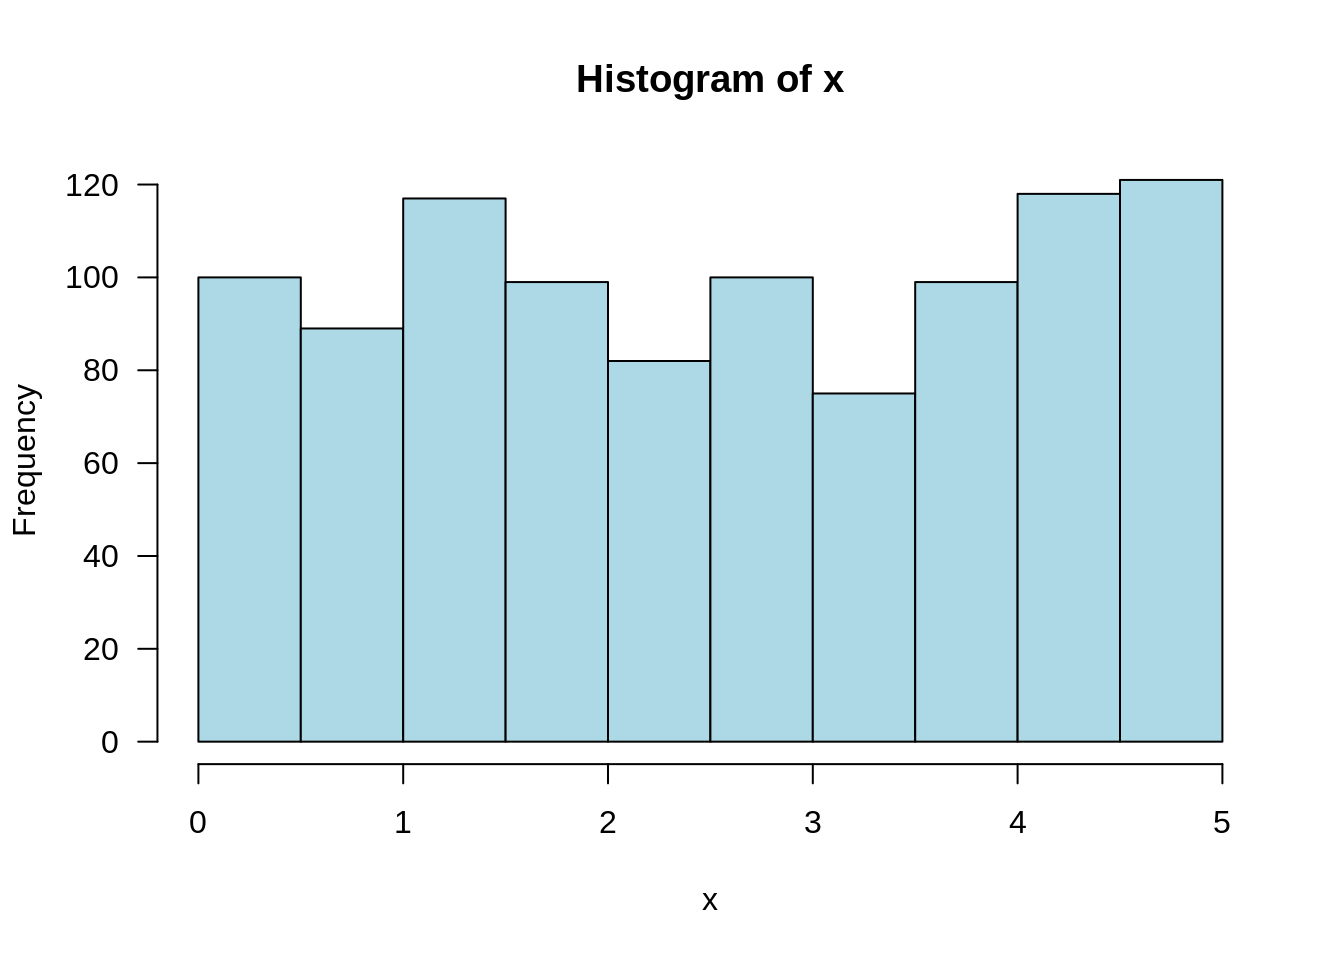
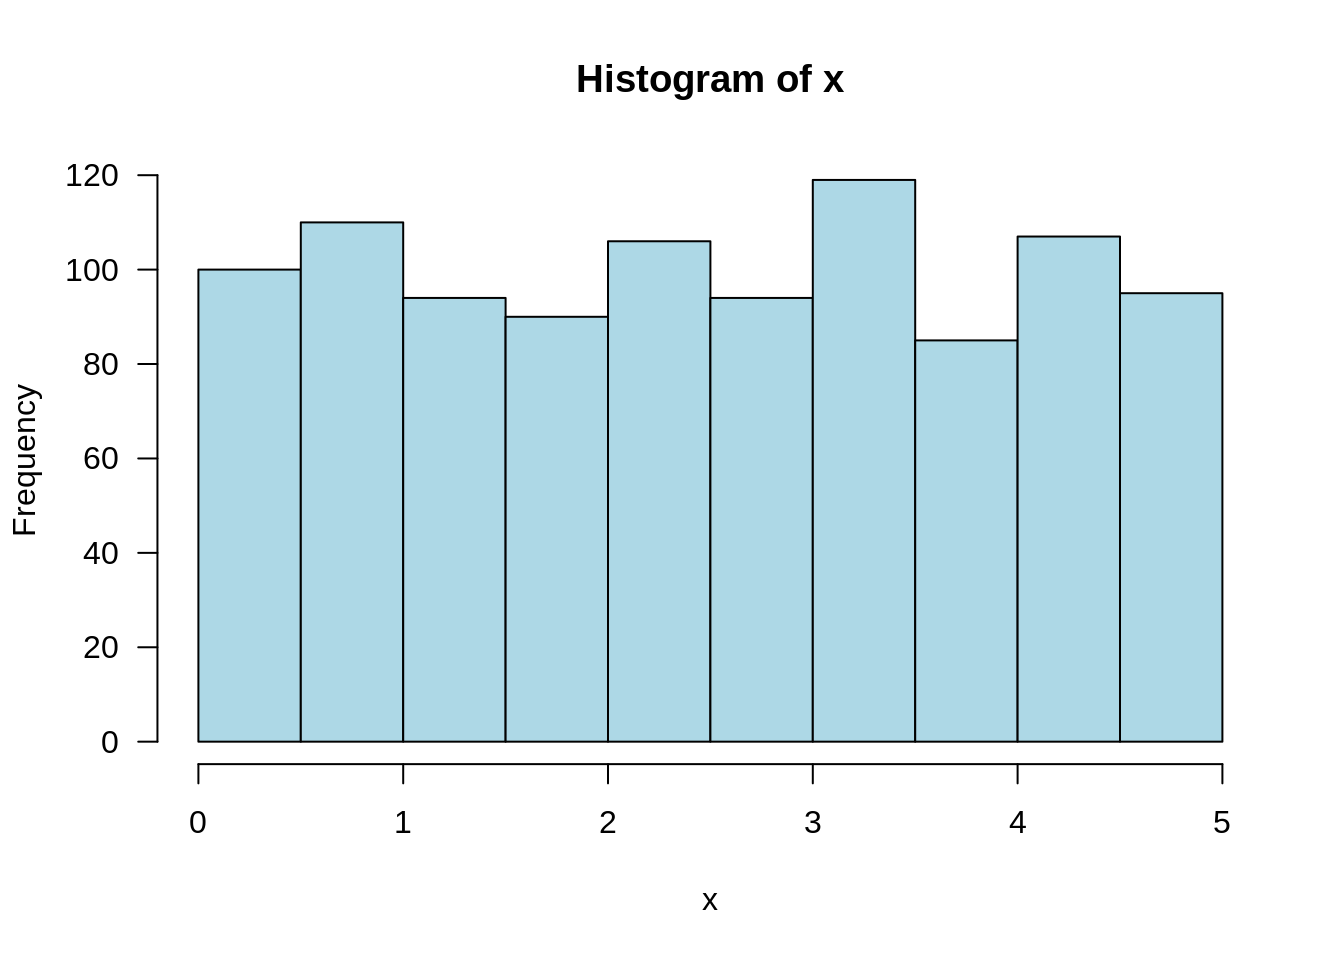
jtr13 published a site update

diff --git a/ch.-4-continuous-random-variables-and-probability-distributions.html b/ch.-4-continuous-random-variables-and-probability-distributions.html
@@ -24,7 +24,7 @@
 <meta name="author" content="Joyce Robbins" />
 
 
-<meta name="date" content="2021-09-04" />
+<meta name="date" content="2021-09-11" />
 
   <meta name="viewport" content="width=device-width, initial-scale=1" />
   <meta name="apple-mobile-web-app-capable" content="yes" />
@@ -271,11 +271,11 @@ code span.wa { color: #60a0b0; font-weight: bold; font-style: italic; } /* Warni
 <p>Randomly choose one number from the distribution:</p>
 <p><span class="math inline">\(f(x) = .2\)</span> for <span class="math inline">\(0 \leq x \leq 5\)</span>, 0 otherwise.</p>
 <div class="sourceCode" id="cb151"><pre class="sourceCode r"><code class="sourceCode r"><span id="cb151-1"><a href="ch.-4-continuous-random-variables-and-probability-distributions.html#cb151-1"></a><span class="kw">runif</span>(<span class="dt">n =</span> <span class="dv">1</span>, <span class="dt">min =</span> <span class="dv">0</span>, <span class="dt">max =</span> <span class="dv">5</span>)</span></code></pre></div>
-<pre><code>## [1] 3.786187</code></pre>
+<pre><code>## [1] 4.861582</code></pre>
 <p>Take the average of 1000 picks:</p>
 <div class="sourceCode" id="cb153"><pre class="sourceCode r"><code class="sourceCode r"><span id="cb153-1"><a href="ch.-4-continuous-random-variables-and-probability-distributions.html#cb153-1"></a>x &lt;-<span class="st"> </span><span class="kw">runif</span>(<span class="dt">n =</span> <span class="dv">1000</span>, <span class="dt">min =</span> <span class="dv">0</span>, <span class="dt">max =</span> <span class="dv">5</span>)</span>
 <span id="cb153-2"><a href="ch.-4-continuous-random-variables-and-probability-distributions.html#cb153-2"></a><span class="kw">mean</span>(x)</span></code></pre></div>
-<pre><code>## [1] 2.564866</code></pre>
+<pre><code>## [1] 2.495369</code></pre>
 <p>Draw a histogram of the 1000 picks:</p>
 <div class="sourceCode" id="cb155"><pre class="sourceCode r"><code class="sourceCode r"><span id="cb155-1"><a href="ch.-4-continuous-random-variables-and-probability-distributions.html#cb155-1"></a><span class="kw">hist</span>(x, <span class="dt">las =</span> <span class="dv">1</span>, <span class="dt">col =</span> <span class="st">&quot;lightblue&quot;</span>)</span></code></pre></div>
 <p><img src="STAT1201-resource_files/figure-html/unnamed-chunk-41-1.png" width="672" /></p>

diff --git a/index.html b/index.html
@@ -24,7 +24,7 @@
 <meta name="author" content="Joyce Robbins" />
 
 
-<meta name="date" content="2021-09-04" />
+<meta name="date" content="2021-09-11" />
 
   <meta name="viewport" content="width=device-width, initial-scale=1" />
   <meta name="apple-mobile-web-app-capable" content="yes" />
@@ -262,7 +262,7 @@ code span.wa { color: #60a0b0; font-weight: bold; font-style: italic; } /* Warni
 <div id="header">
 <h1 class="title">Stat 1201 Resources</h1>
 <p class="author"><em>Joyce Robbins</em></p>
-<p class="date"><em>2021-09-04</em></p>
+<p class="date"><em>2021-09-11</em></p>
 </div>
 <div id="introduction" class="section level1 unnumbered">
 <h1>Introduction</h1>

diff --git a/404.html b/404.html
@@ -24,7 +24,7 @@
 <meta name="author" content="Joyce Robbins" />
 
 
-<meta name="date" content="2021-09-04" />
+<meta name="date" content="2021-09-11" />
 
   <meta name="viewport" content="width=device-width, initial-scale=1" />
   <meta name="apple-mobile-web-app-capable" content="yes" />

diff --git a/ch.-1-descriptive-statistics.html b/ch.-1-descriptive-statistics.html
@@ -24,7 +24,7 @@
 <meta name="author" content="Joyce Robbins" />
 
 
-<meta name="date" content="2021-09-04" />
+<meta name="date" content="2021-09-11" />
 
   <meta name="viewport" content="width=device-width, initial-scale=1" />
   <meta name="apple-mobile-web-app-capable" content="yes" />

diff --git a/ch.-12-linear-regression.html b/ch.-12-linear-regression.html
@@ -24,7 +24,7 @@
 <meta name="author" content="Joyce Robbins" />
 
 
-<meta name="date" content="2021-09-04" />
+<meta name="date" content="2021-09-11" />
 
   <meta name="viewport" content="width=device-width, initial-scale=1" />
   <meta name="apple-mobile-web-app-capable" content="yes" />

diff --git a/ch.-2-conditional-probability.html b/ch.-2-conditional-probability.html
@@ -24,7 +24,7 @@
 <meta name="author" content="Joyce Robbins" />
 
 
-<meta name="date" content="2021-09-04" />
+<meta name="date" content="2021-09-11" />
 
   <meta name="viewport" content="width=device-width, initial-scale=1" />
   <meta name="apple-mobile-web-app-capable" content="yes" />

diff --git a/ch.-2-probability.html b/ch.-2-probability.html
@@ -24,7 +24,7 @@
 <meta name="author" content="Joyce Robbins" />
 
 
-<meta name="date" content="2021-09-04" />
+<meta name="date" content="2021-09-11" />
 
   <meta name="viewport" content="width=device-width, initial-scale=1" />
   <meta name="apple-mobile-web-app-capable" content="yes" />

diff --git a/ch.-3-discrete-distributions.html b/ch.-3-discrete-distributions.html
@@ -24,7 +24,7 @@
 <meta name="author" content="Joyce Robbins" />
 
 
-<meta name="date" content="2021-09-04" />
+<meta name="date" content="2021-09-11" />
 
   <meta name="viewport" content="width=device-width, initial-scale=1" />
   <meta name="apple-mobile-web-app-capable" content="yes" />

diff --git a/ch.-5-joint-probability.html b/ch.-5-joint-probability.html
@@ -24,7 +24,7 @@
 <meta name="author" content="Joyce Robbins" />
 
 
-<meta name="date" content="2021-09-04" />
+<meta name="date" content="2021-09-11" />
 
   <meta name="viewport" content="width=device-width, initial-scale=1" />
   <meta name="apple-mobile-web-app-capable" content="yes" />

diff --git a/ch.-5-random-samples.html b/ch.-5-random-samples.html
@@ -24,7 +24,7 @@
 <meta name="author" content="Joyce Robbins" />
 
 
-<meta name="date" content="2021-09-04" />
+<meta name="date" content="2021-09-11" />
 
   <meta name="viewport" content="width=device-width, initial-scale=1" />
   <meta name="apple-mobile-web-app-capable" content="yes" />

diff --git a/ch.-6-point-estimation.html b/ch.-6-point-estimation.html
@@ -24,7 +24,7 @@
 <meta name="author" content="Joyce Robbins" />
 
 
-<meta name="date" content="2021-09-04" />
+<meta name="date" content="2021-09-11" />
 
   <meta name="viewport" content="width=device-width, initial-scale=1" />
   <meta name="apple-mobile-web-app-capable" content="yes" />

diff --git a/ch.-7-statistical-intervals-based-on-a-single-sample.html b/ch.-7-statistical-intervals-based-on-a-single-sample.html
@@ -24,7 +24,7 @@
 <meta name="author" content="Joyce Robbins" />
 
 
-<meta name="date" content="2021-09-04" />
+<meta name="date" content="2021-09-11" />
 
   <meta name="viewport" content="width=device-width, initial-scale=1" />
   <meta name="apple-mobile-web-app-capable" content="yes" />
